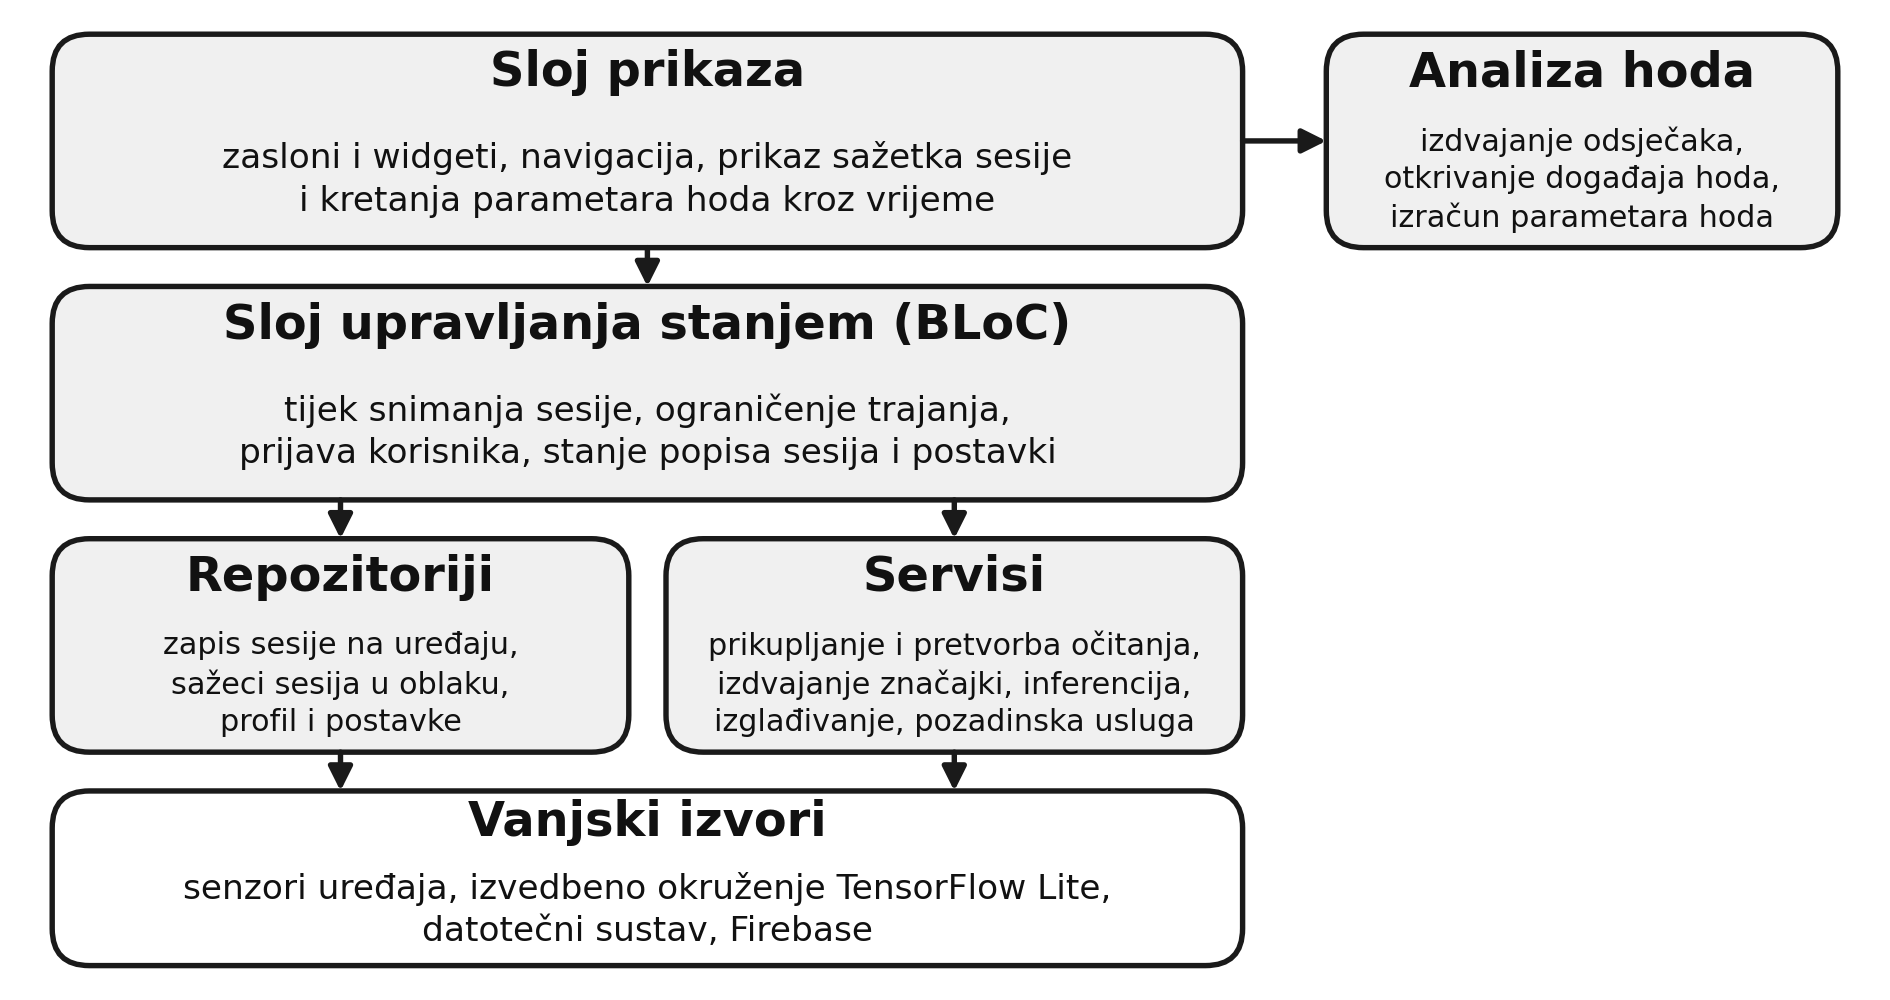
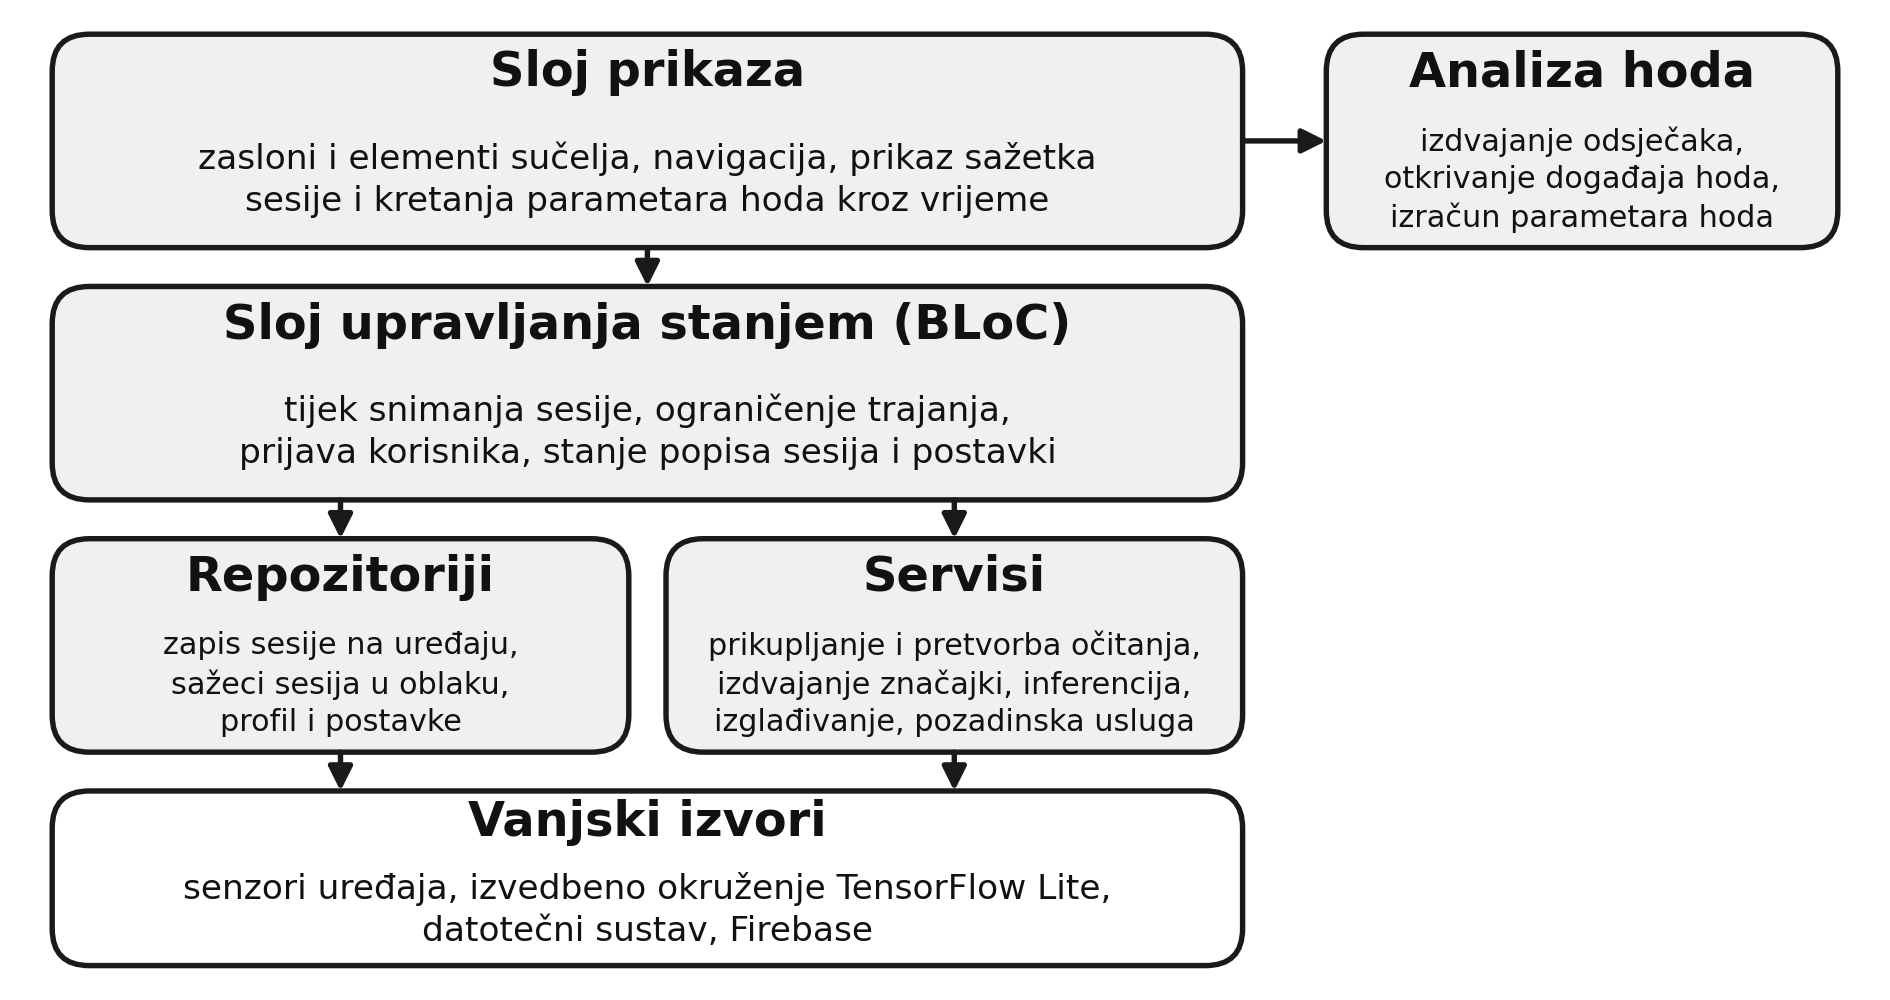
fix: update figure descriptions for clarity and consistency in make_ch35_figures.py

Changed region(s): [[0.0937, 0.124, 0.5931, 0.217]]

diff --git a/ml/scripts/make_ch35_figures.py b/ml/scripts/make_ch35_figures.py
@@ -97,7 +97,7 @@ AL, AR = 70.5, 98.0       # desni blok (analiza hoda)
 
 g = []
 g.append(c.box(L, 76, R - L, 22,
-      "zasloni i widgeti, navigacija, prikaz sažetka sesije\ni kretanja parametara hoda kroz vrijeme",
+      "zasloni i elementi sučelja, navigacija, prikaz sažetka\nsesije i kretanja parametara hoda kroz vrijeme",
       title="Sloj prikaza"))
 small = [c.box(AL, 76, AR - AL, 22,
       "izdvajanje odsječaka,\notkrivanje događaja hoda,\nizračun parametara hoda",
@@ -160,6 +160,8 @@ c.box(LEFT, y_log, ROW_W, h_log,
       "Zapis sesije na uređaju: predikcije i sirovi uzorci",
       fs=11.0, fill="#FFFFFF", r=1.5)
 c.arrow(LEFT + 5 * (w1 + gap) + w1 / 2, y1, LEFT + 5 * (w1 + gap) + w1 / 2, y_log + h_log)
+# sirovi uzorci ulaze u zapis sesije neovisno o predikcijama
+c.arrow(LEFT + 1 * (w1 + gap) + w1 / 2, y1, LEFT + 1 * (w1 + gap) + w1 / 2, y_log + h_log)
 
 c.frame(1.0, 13.0, 98.0, 32.0,
         "Nakon zaustavljanja sesije: radni izolat", just="r")
